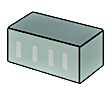
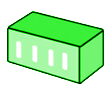
feat: add feature container kpi

diff --git a/front/lib/ui/components/kpi_list_detail.dart b/front/lib/ui/components/kpi_list_detail.dart
@@ -42,8 +42,18 @@ class _KPIListDetailState extends State<KPIListDetail> {
           amount: widget.containers
               .where((element) => element['State']['Status'] == "paused")
               .length,
-          title: "Exited container",
-        )
+          title: "Paused container",
+        ),
+        SizedBox(
+          height: defaultPadding - 8,
+        ),
+        KpiCard(
+          logoPath: "assets/container_run.png",
+          amount: widget.containers
+              .where((element) => element['State']['Status'] == "run")
+              .length,
+          title: "Running container",
+        ),
       ],
     );
   }
